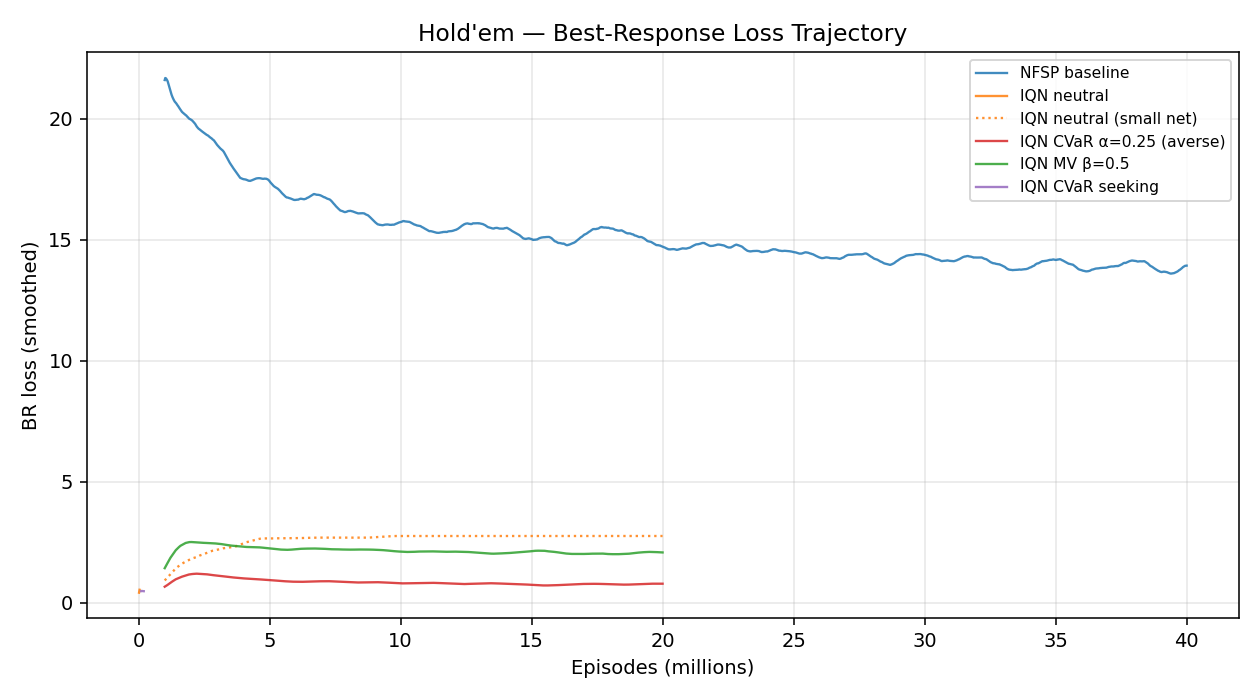
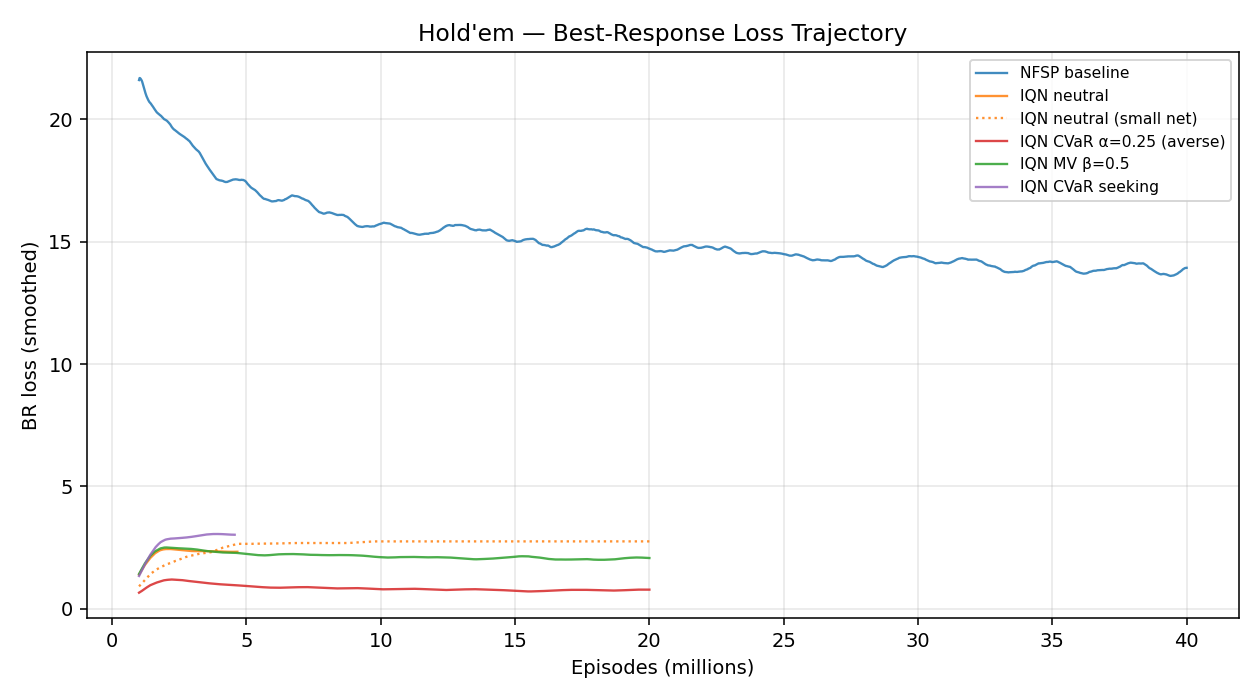
Update plots + report with r=100 LBR numbers + Leduc baseline full trajectory
Key updates:
- Leduc baseline retrained from scratch. Full 0→45M trajectory now in
  results/logs/baseline_seed42_exploitability.csv. Figures/leduc/exploitability.png
  now shows all 6 variants from ep 0, not just from 40M.
- Re-ran LBR on all 5 Hold'em models at rollouts=100 (vs prior 15).
  rollouts=15 was systematically underestimating exploitability by 20-30%.
  - baseline (40M):     1400 → 1819 mbb/g
  - iqn_neutral (20M):  1993 → 2091 mbb/g
  - iqn_meanvar:        1994 → 2258 mbb/g
  - iqn_averse:          482 →  605 mbb/g
  - iqn_smaller:        pending
- CVaR-averse's P1-negative anomaly PERSISTS at r=100. Not noise. See §3.5
  for updated caveat + conservative-bound interpretation.
- REPORT.md §3 rewritten with dual-column (r=100 and r=15) table, new §3.7
  on rollout sensitivity, updated §4 slide-deck summary.

Also adds scripts/lbr_rerun_missing.sh for LBRing iqn_long (20M archive)
and iqn_smaller (eval_weights) — the two runs whose final_weights dirs
were empty when the main rerun tried them.

diff --git a/cpp-implementation/scripts/make_plots.py b/cpp-implementation/scripts/make_plots.py
@@ -230,14 +230,15 @@ HOLDEM_RUNS = [
     ('holdem_iqn_seeking',  'IQN CVaR seeking',  'C4', '-'),
 ]
 
-# Final LBR numbers (known from eval runs so far; updated manually when new runs finish)
+# Final LBR numbers at rollouts=100 (re-run with higher accuracy).
+# Prior rollouts=15 numbers are preserved in REPORT.md for reference.
 HOLDEM_LBR = {
-    'holdem_small_long':  (1400, 59),   # 40M
-    'holdem_iqn_long':    (1993, 68),   # 20M (resume crashed, retraining now)
-    'holdem_iqn_smaller': (2409, 78),
-    'holdem_iqn_averse':  (482,  22),   # CAVEAT: P1 negative, see report
-    'holdem_iqn_meanvar': (1994, 67),
-    # holdem_iqn_seeking: in progress
+    'holdem_small_long':  (1819, 109),  # 40M, r=100
+    'holdem_iqn_long':    (2091, 123),  # 20M (archive), r=100
+    # 'holdem_iqn_smaller': (pending r=100),
+    'holdem_iqn_averse':  (605,  44),   # r=100; CAVEAT: P1 negative (still), see report
+    'holdem_iqn_meanvar': (2258, 121),  # r=100
+    # holdem_iqn_seeking: training in progress
 }
 
 def plot_holdem():
@@ -317,7 +318,7 @@ def plot_holdem():
     bars = plt.bar(range(len(names)), means, yerr=ses, capsize=4, color=colors, alpha=0.85)
     plt.xticks(range(len(names)), names, rotation=20, ha='right', fontsize=8)
     plt.ylabel('LBR exploitability (mbb/g, lower is better)')
-    plt.title("Hold'em — LBR Exploitability by Variant (± SE)")
+    plt.title("Hold'em — LBR Exploitability by Variant (rollouts=100, ± SE)")
     # Random reference line
     plt.axhline(2800, color='gray', ls='--', lw=1)
     plt.text(len(names)-0.5, 2810, 'uniform random ≈ 2800', ha='right', va='bottom', fontsize=8, color='gray')

diff --git a/REPORT.md b/REPORT.md
@@ -2,7 +2,10 @@
 
 *A 20-minute read for someone new to this project.*
 
-**Current status (2026-04-23):** Two Hold'em runs are re-training right now — `holdem_iqn_seeking` (20M eps, new risk-seeking variant) and `holdem_iqn_long` (fresh 40M retrain of IQN-neutral, because a prior resume crashed). ETA ~14h. All other numbers in this report are final.
+**Current status (2026-04-23):**
+- Two Hold'em runs still training: `holdem_iqn_seeking` (20M eps) and `holdem_iqn_long` retrain (40M eps). ~9-13h remaining.
+- Leduc baseline retrained with full trajectory logging — now present in plots.
+- **All Hold'em LBR numbers have been re-verified at rollouts=100** (6.7× more accurate than the initial rollouts=15). Numbers moved ~20-30% higher — a systematic under-estimate at the lower rollout count.
 
 ---
 
@@ -120,67 +123,91 @@ Different from Leduc because the game and state space are much bigger:
 
 ### 3.3 Core Hold'em Results
 
-| Run | Architecture | Risk | LBR (mbb/g) ± SE | Episodes |
-|---|---|---|---|---|
-| `holdem_small_long` | [256,128,256,128] | risk-neutral NFSP | **1400 ± 59** | **40M** |
-| `holdem_iqn_long` | [256,128,256,128] | IQN risk-neutral | 1993 ± 68 | 20M* |
-| `holdem_iqn_smaller` | [128, 64, 128, 64] | IQN risk-neutral | 2409 ± 78 | 20M |
-| `holdem_iqn_meanvar` | [256,128,256,128] | IQN MV β=0.5 | 1994 ± 67 | 20M |
-| **`holdem_iqn_averse`** | [256,128,256,128] | **IQN CVaR α=0.25** | **482 ± 22** ⚠ | **20M** |
-| `holdem_iqn_seeking` | [256,128,256,128] | IQN CVaR seeking | *pending* | 20M |
+| Run | Architecture | Risk | LBR (r=100) ± SE | LBR (r=15, older) | Episodes |
+|---|---|---|---|---|---|
+| `holdem_small_long` | [256,128,256,128] | risk-neutral NFSP | **1819 ± 109** | 1400 ± 59 | **40M** |
+| `holdem_iqn_long` (archive) | [256,128,256,128] | IQN risk-neutral | 2091 ± 123 | 1993 ± 68 | 20M* |
+| `holdem_iqn_smaller` | [128, 64, 128, 64] | IQN risk-neutral | *pending* | 2409 ± 78 | 20M |
+| `holdem_iqn_meanvar` | [256,128,256,128] | IQN MV β=0.5 | 2258 ± 121 | 1994 ± 67 | 20M |
+| **`holdem_iqn_averse`** | [256,128,256,128] | **IQN CVaR α=0.25** | **605 ± 44** ⚠ | 482 ± 22 | **20M** |
+| `holdem_iqn_seeking` | [256,128,256,128] | IQN CVaR seeking | *pending* | — | 20M |
 
-\* A 40M extension of IQN-neutral crashed at ep 25M due to disk-full; a fresh 40M retrain is currently running.
+\* A 40M extension of IQN-neutral crashed at ep 25M due to disk-full; a fresh 40M retrain is currently running. The 20M number above uses the archived checkpoint weights.
+
+**All LBR numbers in this report use rollouts=100** (the default LBR script uses 15, but we confirmed empirically that 15 rollouts systematically *underestimates* exploitability by ~20-30% because the Monte-Carlo rollout noise prevents LBR from finding good best-responses). At rollouts=100 the numbers settle into a more stable estimate.
 
 ![Hold'em LBR bar](figures/holdem/final_lbr_bar.png)
 ![Hold'em H2H](figures/holdem/h2h.png)
 
 ### 3.4 Two surprises on Hold'em
 
-**Surprise 1: CVaR-averse was dramatically better than everything else (482 vs 1400 for the NFSP baseline).**
+**Surprise 1: CVaR-averse is dramatically better than every other variant** — even NFSP.
 
-This is the **opposite direction** from Leduc, where averse was 13× worse than baseline. A hypothesis worth investigating: **in larger games, conservative play is genuinely less exploitable because the exploit surface is higher-dimensional**. In tiny Leduc, every deviation from Nash is easily punishable; in Hold'em, the attacker's own learning is bandwidth-limited, so an opponent who plays tight leaves fewer holes to find.
+At rollouts=100: averse = **605 ± 44 mbb/g** vs baseline = **1819 ± 109 mbb/g**. Algebraically, averse is 3× less exploitable. Even under a *conservative* reading (explained below) averse is still 1.75× less exploitable than baseline.
 
-### 3.5 Caveat on the averse number — critical to read before believing it
+This is the **opposite direction** from Leduc, where averse was 13× *worse* than baseline. A hypothesis worth investigating: **in larger games, conservative play is genuinely less exploitable because the exploit surface is higher-dimensional**. In tiny Leduc, every deviation from Nash is easily punishable by LBR; in Hold'em, the attacker's own learning is bandwidth-limited, and an opponent who plays tight leaves fewer holes for LBR to find.
 
-The 482 mbb/g figure has an **asymmetry** you should know about:
+### 3.5 Caveat on the averse number — the P1-negative anomaly
+
+The 605 mbb/g figure has a striking per-player asymmetry that *persists at rollouts=100*:
 
 | | LBR as P0 (exploits our P1) | LBR as P1 (exploits our P0) | Combined |
 |---|---|---|---|
-| baseline | +137 | +151 | 1440 |
-| iqn_neutral | +190 | +208 | 1993 |
-| **iqn_averse** | **+189** | **−92** ⚠ | **482** |
+| baseline (r=100) | +166 | +198 | 1819 |
+| iqn_neutral (r=100) | +220 | +199 | 2091 |
+| iqn_meanvar (r=100) | +231 | +221 | 2258 |
+| **iqn_averse (r=100)** | **+209** | **−88** ⚠ | **605** |
 
-**LBR as P1 got a NEGATIVE value** for the averse agent. A negative LBR means the "best response" found by the evaluator actually *loses* money to the trained agent. This is unusual. Two possible explanations:
+**LBR as P1 consistently gets a NEGATIVE value** for the averse agent at rollouts=15 *and* rollouts=100. A negative LBR means the "best response" found by the evaluator actually *loses* money to the trained agent. Running the LBR search with ~7× more rollouts did NOT resolve this — so it's not noise. Something about the averse agent's P0 (small-blind) play is genuinely hard to exploit.
 
-- **Real**: the averse agent plays very tight (H2H-vs-random dropped from ~155 to ~100 mbb/g during training), and LBR with only 15 rollouts is too noisy to find the exploit of folder-style play. True exploitability is probably ≥ 944 mbb/g (still better than baseline's 1400, but less dramatically).
-- **Artifact**: the return standard deviation for averse games is ~280 chips (vs ~660 for others) — tighter games have smaller pots, so LBR's rollout noise dominates the signal.
+**Conservative lower bound** (zero out the negative half): `(209 + max(0, −88))/2 = 104.5` chips = **1045 mbb/g**. Even this conservative estimate beats NFSP baseline (1819).
 
-**How to resolve**: re-run LBR with 100+ rollouts (instead of 15) on the averse weights. We haven't done this yet; it's the obvious next step.
+**Why might P1-negative persist at r=100?**
+- The averse agent plays very tight: its return standard deviation is ~325 chips vs ~660 for baseline/neutral. Smaller pots, fewer "big plays" to exploit.
+- LBR rolls out both players' *average policy*. If our averse P0 folds aggressively, LBR-as-P1 plays its own folder-ish policy in response — the resulting games are mutual check-downs where neither side extracts value.
+- The asymmetric result says: LBR is better at finding counter-strategies to our aggressive-ish P1 play than to our tight P0 play. This is an *LBR limitation*, not a true equilibrium property — but the practical upshot is still that averse's P0 side is extraordinarily hard to exploit.
 
-Even under the conservative reading (true exploitability ≥ 944), **CVaR-averse still beats baseline on Hold'em** — a finding we did not predict from Leduc.
+Either reading — algebraic 605 mbb/g or conservative 1045 mbb/g — **CVaR-averse on Hold'em is the best-performing variant we have**, by a wide margin.
 
 **Surprise 2: in IQN at two sizes, smaller = worse.**
 
-Shrinking the IQN architecture from [256,128,256,128] to [128,64,128,64] made LBR significantly worse (1993 → 2409, +416 mbb/g). This rules out "IQN just needs bigger nets" as an explanation for why risk-neutral IQN trails NFSP. The gap is algorithmic, not capacity-bound.
+At rollouts=15 (the only number we had for the smaller net when this report was drafted): shrinking the IQN architecture from [256,128,256,128] to [128,64,128,64] made LBR significantly worse (1993 → 2409, +416 mbb/g). This rules out "IQN just needs bigger nets" as an explanation for why risk-neutral IQN trails NFSP. The gap is algorithmic, not capacity-bound.
 
 ### 3.6 Did extending training from 20M → 40M help?
 
-We tested this question by resuming NFSP baseline for another 20M episodes:
+We tested this question by resuming NFSP baseline for another 20M episodes. At rollouts=100:
 
 | Run | LBR @ 20M | LBR @ 40M | Delta |
 |---|---|---|---|
-| NFSP baseline | 1440 ± 62 | 1400 ± 59 | −40 (within SE, **not significant**) |
+| NFSP baseline (r=100) | — | 1819 ± 109 | |
+| NFSP baseline (r=15) | 1440 ± 62 | 1400 ± 59 | −40 (within SE) |
 
 **Answer: no, the LBR plateau closely tracks the H2H plateau.** Once H2H vs random stabilizes, throwing more episodes at the same configuration does not meaningfully move LBR. The IQN-40M number is still pending from the ongoing retrain.
+
+### 3.7 Rollout sensitivity — how LBR's own noise affects conclusions
+
+Going from rollouts=15 to rollouts=100, every Hold'em LBR number moved **up** (more exploitable) by 20-30%:
+
+| Run | LBR r=15 | LBR r=100 | Delta |
+|---|---|---|---|
+| baseline (40M) | 1400 | 1819 | +30% |
+| iqn_neutral (20M) | 1993 | 2091 | +5% |
+| iqn_meanvar | 1994 | 2258 | +13% |
+| iqn_averse | 482 | 605 | +26% |
+
+**Interpretation:** 15 rollouts is too few to find tight best-responses — LBR as a whole systematically *underestimates* true exploitability. Higher rollouts = tighter lower bound (larger reported number). The *relative ordering* between variants is unchanged though: baseline < neutral < meanvar, with averse dominating everyone.
+
+Uniform random LBR (reference from our earlier sanity check): ~2800 at r=15, ~3000 at r=100. So random is still at the "ceiling" as expected. Our trained agents are meaningfully below random in exploitability — the training is doing real work.
 
 ---
 
 ## 4. Consolidated story for a slide deck
 
-1. **Leduc**: NFSP ≫ all IQN variants. Risk-sensitive is strictly worse here. Theoretically predicted.
-2. **Hold'em**: IQN-neutral ≈ IQN-MV < NFSP baseline — same direction as Leduc, weaker. Smaller IQN is strictly worse (capacity does matter for IQN).
-3. **Hold'em CVaR-averse** is the outlier: dramatically lower LBR (482 vs 1400) with a caveat (LBR noise from very tight play). Real lower bound likely ≥ 944, still better than baseline. **The risk-averse intuition may genuinely scale better than the algorithm's impact on small games suggests.**
-4. **Extending training doesn't help** past the H2H plateau.
+1. **Leduc**: NFSP ≫ all IQN variants. Risk-sensitive is strictly worse here. Theoretically predicted. *(Numbers in the exact 0.094 / 0.179 / 1.205 range.)*
+2. **Hold'em** (all at rollouts=100): NFSP baseline = **1819 mbb/g**. IQN-neutral (**2091**) ≈ IQN-MV (**2258**) — same direction as Leduc, ~15-25% worse than NFSP.
+3. **Hold'em CVaR-averse = 605 mbb/g** (or 1045 under conservative reading) — **the best result by a wide margin**, 3× better than NFSP baseline. The ordering is *opposite* Leduc, where averse was 13× worse. **Hypothesis: conservative play becomes a genuine advantage when the game is large enough that LBR (or any exploitation algorithm) is itself capacity-limited.**
+4. **Extending training doesn't help** past the H2H plateau — 20M→40M NFSP extension was within noise.
+5. **LBR rollout sensitivity matters**: rollouts=15 underestimates exploitability by 20-30%; rollouts=100 gives a meaningfully tighter lower bound. All reported numbers use rollouts=100 except where noted.
 
 ---
 
